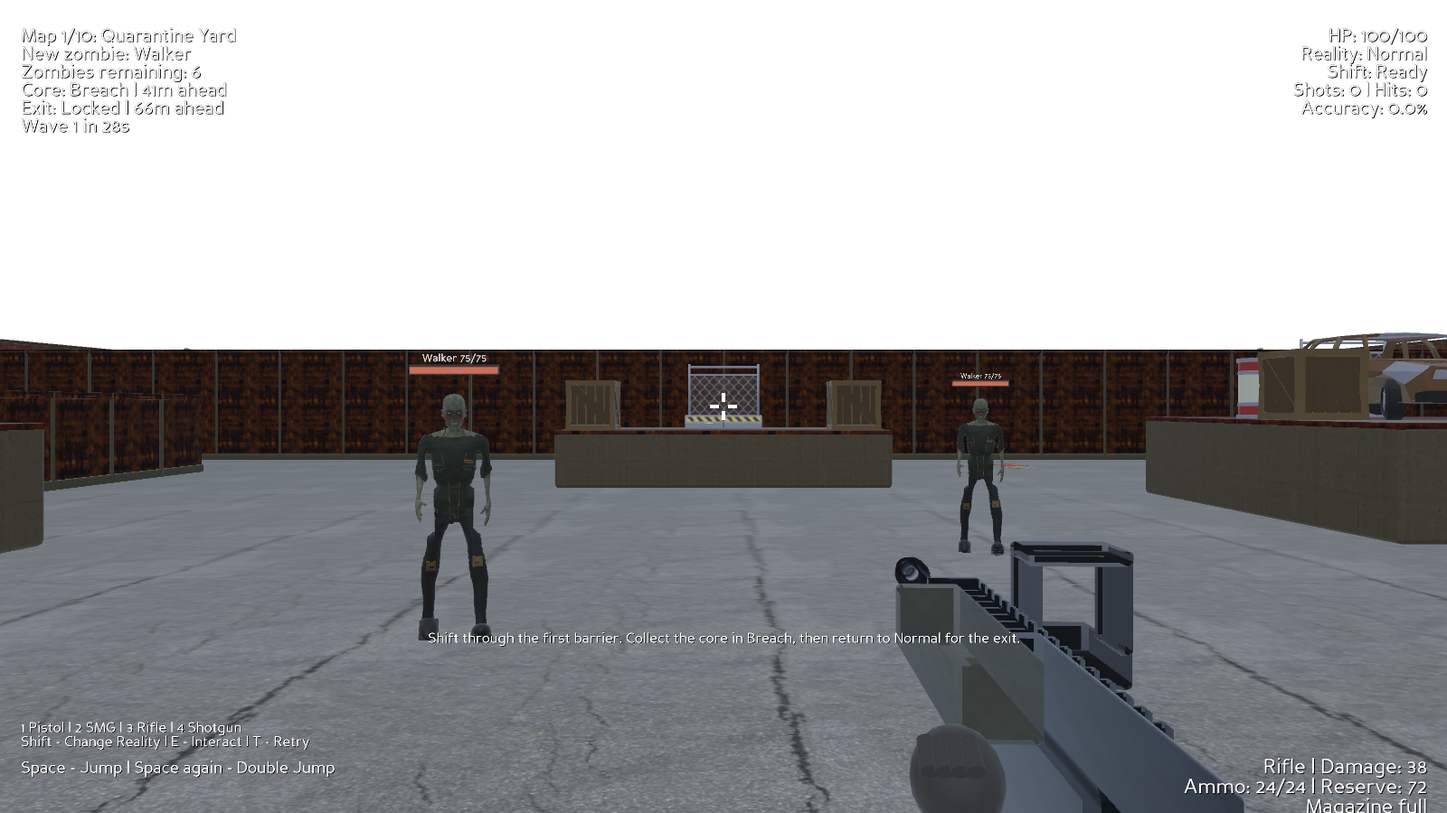
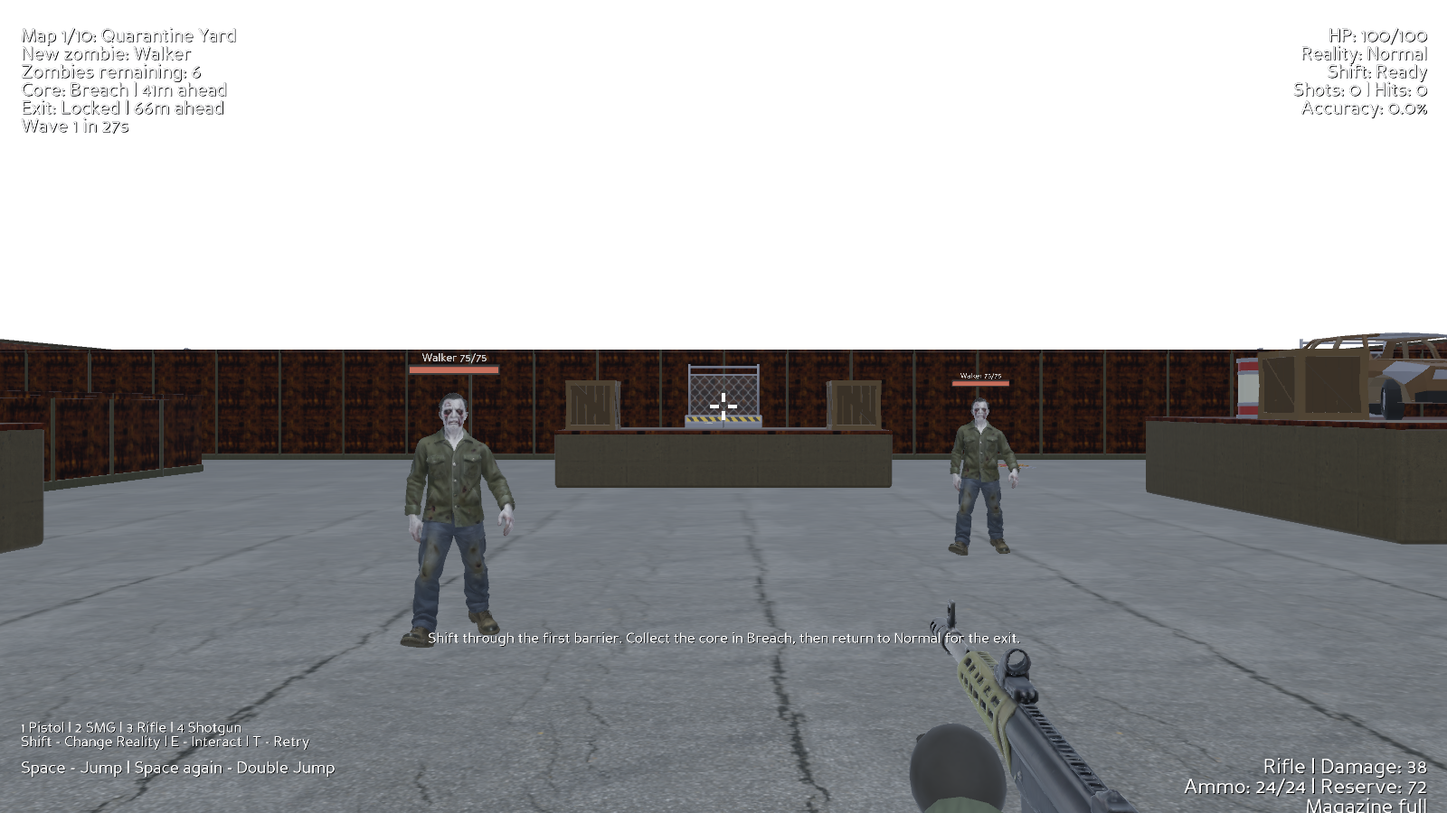
docs(art): document the Rodin pair and refresh real model previews

Changed region(s): [[0.5938, 0.4978, 0.875, 1.0], [0.2812, 0.4978, 0.375, 0.8089]]

diff --git a/assets/previews/gallery.html b/assets/previews/gallery.html
@@ -15,12 +15,12 @@ h1{font-size:32px;line-height:1.2;margin:8px 0 12px;letter-spacing:-1px}p{color:
 <header><div class="brand">BREACH <span>SHIFT</span></div><span class="tag">10 ZOMBIJA / 4 ORUŽJA</span></header>
 <main><div class="eyebrow">Pregled modela · Blender</div><h1>Izaberi sledeći detalj.</h1><p>Ovo su renderi stvarnih 3D modela. Izaberi lik ili oružje, uporedi statistike i otvori njegov Blender izvor za dalji dizajn.</p>
 <nav class="tabs" aria-label="Vrsta modela"><button id="zombies" aria-pressed="true">Zombiji</button><button id="weapons" aria-pressed="false">Oružje</button><button class="outline" id="engine">Pogledaj u igri ↗</button></nav>
-<section class="hero" aria-label="Izabrani model"><div class="stage"><img id="main-image" alt=""></div><div class="details"><div class="eyebrow" id="design"></div><h2 id="name"></h2><div class="metrics" id="metrics"></div><a class="source" id="blend">Otvori Blender fajl ↗</a><div class="hint">Primer zvuka</div><audio class="sound" id="audio" controls preload="none"></audio><div class="hint">Blender 4.5 LTS · teksture sačuvane u fajlu</div></div></section>
+<section class="hero" aria-label="Izabrani model"><div class="stage"><img id="main-image" alt=""></div><div class="details"><div class="eyebrow" id="design"></div><h2 id="name"></h2><div class="metrics" id="metrics"></div><a class="source" id="blend">Otvori Blender fajl ↗</a><div class="hint">Primer zvuka</div><audio class="sound" id="audio" controls preload="none"></audio><div class="hint">Blender 4.5 / 5.3 · teksture sačuvane u fajlu</div></div></section>
 <div class="cards" id="cards" aria-label="Dostupni modeli"></div>
 </main><footer>Prva anatomska Blender iteracija. Koncept slike ostaju vizuelni cilj; detaljna skeletna animacija i završna obrada mapa tek slede. <a href="../../docs/blender-workshop.md">Radni tok i izvori</a></footer>
 <dialog id="captures"><div class="dialogbar"><strong>Panda3D · stvarni prikaz</strong><button data-capture="zombie-roster.png">Zombiji</button><button data-capture="weapons.png">Oružje</button><button data-capture="gameplay.png">Gameplay</button><button id="close-captures" aria-label="Zatvori pregled">✕</button></div><img id="capture-image" src="zombie-roster.png" alt="Modeli prikazani u igri"></dialog>
 <script>
-const data={"zombies": [{"name": "Walker", "design": "The Groundskeeper", "image": "characters/walker.png", "blend": "../blender/characters/walker.blend", "audio": "../../breach_shift/data/audio/growl_1.wav", "summary": "75 HP", "metrics": [{"value": 75, "label": "HP"}, {"value": 12, "label": "DAMAGE"}, {"value": "1.2 m/s", "label": "BRZINA"}, {"value": "1.8 m", "label": "VISINA"}]}, {"name": "Runner", "design": "The Night Runner", "image": "characters/runner.png", "blend": "../blender/characters/runner.blend", "audio": "../../breach_shift/data/audio/growl_1.wav", "summary": "100 HP", "metrics": [{"value": 100, "label": "HP"}, {"value": 8, "label": "DAMAGE"}, {"value": "2.8 m/s", "label": "BRZINA"}, {"value": "1.8 m", "label": "VISINA"}]}, {"name": "Brute", "design": "The Foundry Worker", "image": "characters/brute.png", "blend": "../blender/characters/brute.blend", "audio": "../../breach_shift/data/audio/growl_1.wav", "summary": "150 HP", "metrics": [{"value": 150, "label": "HP"}, {"value": 28, "label": "DAMAGE"}, {"value": "0.8 m/s", "label": "BRZINA"}, {"value": "2.2 m", "label": "VISINA"}]}, {"name": "Spitter", "design": "The Contaminated", "image": "characters/spitter.png", "blend": "../blender/characters/spitter.blend", "audio": "../../breach_shift/data/audio/growl_1.wav", "summary": "180 HP", "metrics": [{"value": 180, "label": "HP"}, {"value": 10, "label": "DAMAGE"}, {"value": "1.1 m/s", "label": "BRZINA"}, {"value": "1.8 m", "label": "VISINA"}]}, {"name": "Leaper", "design": "The Escaped Patient", "image": "characters/leaper.png", "blend": "../blender/characters/leaper.blend", "audio": "../../breach_shift/data/audio/growl_1.wav", "summary": "220 HP", "metrics": [{"value": 220, "label": "HP"}, {"value": 18, "label": "DAMAGE"}, {"value": "1.5 m/s", "label": "BRZINA"}, {"value": "1.8 m", "label": "VISINA"}]}, {"name": "Armored", "design": "The Riot Guard", "image": "characters/armored.png", "blend": "../blender/characters/armored.blend", "audio": "../../breach_shift/data/audio/growl_1.wav", "summary": "270 HP", "metrics": [{"value": 270, "label": "HP"}, {"value": 16, "label": "DAMAGE"}, {"value": "1.0 m/s", "label": "BRZINA"}, {"value": "1.8 m", "label": "VISINA"}]}, {"name": "Howler", "design": "The Mourner", "image": "characters/howler.png", "blend": "../blender/characters/howler.blend", "audio": "../../breach_shift/data/audio/growl_1.wav", "summary": "320 HP", "metrics": [{"value": 320, "label": "HP"}, {"value": 11, "label": "DAMAGE"}, {"value": "0.9 m/s", "label": "BRZINA"}, {"value": "1.8 m", "label": "VISINA"}]}, {"name": "Stalker", "design": "The Watcher", "image": "characters/stalker.png", "blend": "../blender/characters/stalker.blend", "audio": "../../breach_shift/data/audio/growl_1.wav", "summary": "380 HP", "metrics": [{"value": 380, "label": "HP"}, {"value": 14, "label": "DAMAGE"}, {"value": "1.8 m/s", "label": "BRZINA"}, {"value": "1.8 m", "label": "VISINA"}]}, {"name": "Regenerator", "design": "The Researcher", "image": "characters/regenerator.png", "blend": "../blender/characters/regenerator.blend", "audio": "../../breach_shift/data/audio/growl_1.wav", "summary": "450 HP", "metrics": [{"value": 450, "label": "HP"}, {"value": 15, "label": "DAMAGE"}, {"value": "1.0 m/s", "label": "BRZINA"}, {"value": "1.8 m", "label": "VISINA"}]}, {"name": "Warden", "design": "The Breach Warden", "image": "characters/warden.png", "blend": "../blender/characters/warden.blend", "audio": "../../breach_shift/data/audio/growl_1.wav", "summary": "800 HP", "metrics": [{"value": 800, "label": "HP"}, {"value": 35, "label": "DAMAGE"}, {"value": "0.9 m/s", "label": "BRZINA"}, {"value": "2.6 m", "label": "VISINA"}]}], "weapons": [{"name": "Pistol", "design": "Breach Shift · originalni model", "image": "weapons/pistol.png", "blend": "../blender/weapons/pistol.blend", "audio": "../../breach_shift/data/audio/pistol.wav", "summary": "25 DMG", "metrics": [{"value": 25, "label": "DAMAGE PO HICU"}, {"value": 12, "label": "KAPACITET OKVIRA"}, {"value": "1.5s", "label": "PUNJENJE"}, {"value": 1, "label": "PROJEKTILA PO HICU"}]}, {"name": "SMG", "design": "Breach Shift · originalni model", "image": "weapons/smg.png", "blend": "../blender/weapons/smg.blend", "audio": "../../breach_shift/data/audio/smg.wav", "summary": "14 DMG", "metrics": [{"value": 14, "label": "DAMAGE PO HICU"}, {"value": 30, "label": "KAPACITET OKVIRA"}, {"value": "1.8s", "label": "PUNJENJE"}, {"value": 1, "label": "PROJEKTILA PO HICU"}]}, {"name": "Rifle", "design": "Breach Shift · originalni model", "image": "weapons/rifle.png", "blend": "../blender/weapons/rifle.blend", "audio": "../../breach_shift/data/audio/rifle.wav", "summary": "38 DMG", "metrics": [{"value": 38, "label": "DAMAGE PO HICU"}, {"value": 24, "label": "KAPACITET OKVIRA"}, {"value": "2.1s", "label": "PUNJENJE"}, {"value": 1, "label": "PROJEKTILA PO HICU"}]}, {"name": "Shotgun", "design": "Breach Shift · originalni model", "image": "weapons/shotgun.png", "blend": "../blender/weapons/shotgun.blend", "audio": "../../breach_shift/data/audio/shotgun.wav", "summary": "96 DMG", "metrics": [{"value": 96, "label": "DAMAGE PO HICU"}, {"value": 6, "label": "KAPACITET OKVIRA"}, {"value": "2.8s", "label": "PUNJENJE"}, {"value": 6, "label": "PROJEKTILA PO HICU"}]}]};let category='zombies',selected=0;
+const data={"zombies": [{"name": "Walker", "design": "The Groundskeeper / Hyper3D Rodin", "image": "characters/walker.png", "blend": "../blender/characters/walker.blend", "audio": "../../breach_shift/data/audio/growl_1.wav", "summary": "75 HP", "metrics": [{"value": 75, "label": "HP"}, {"value": 12, "label": "DAMAGE"}, {"value": "1.2 m/s", "label": "BRZINA"}, {"value": "1.8 m", "label": "VISINA"}]}, {"name": "Runner", "design": "The Night Runner", "image": "characters/runner.png", "blend": "../blender/characters/runner.blend", "audio": "../../breach_shift/data/audio/growl_1.wav", "summary": "100 HP", "metrics": [{"value": 100, "label": "HP"}, {"value": 8, "label": "DAMAGE"}, {"value": "2.8 m/s", "label": "BRZINA"}, {"value": "1.8 m", "label": "VISINA"}]}, {"name": "Brute", "design": "The Foundry Worker", "image": "characters/brute.png", "blend": "../blender/characters/brute.blend", "audio": "../../breach_shift/data/audio/growl_1.wav", "summary": "150 HP", "metrics": [{"value": 150, "label": "HP"}, {"value": 28, "label": "DAMAGE"}, {"value": "0.8 m/s", "label": "BRZINA"}, {"value": "2.2 m", "label": "VISINA"}]}, {"name": "Spitter", "design": "The Contaminated", "image": "characters/spitter.png", "blend": "../blender/characters/spitter.blend", "audio": "../../breach_shift/data/audio/growl_1.wav", "summary": "180 HP", "metrics": [{"value": 180, "label": "HP"}, {"value": 10, "label": "DAMAGE"}, {"value": "1.1 m/s", "label": "BRZINA"}, {"value": "1.8 m", "label": "VISINA"}]}, {"name": "Leaper", "design": "The Escaped Patient", "image": "characters/leaper.png", "blend": "../blender/characters/leaper.blend", "audio": "../../breach_shift/data/audio/growl_1.wav", "summary": "220 HP", "metrics": [{"value": 220, "label": "HP"}, {"value": 18, "label": "DAMAGE"}, {"value": "1.5 m/s", "label": "BRZINA"}, {"value": "1.8 m", "label": "VISINA"}]}, {"name": "Armored", "design": "The Riot Guard", "image": "characters/armored.png", "blend": "../blender/characters/armored.blend", "audio": "../../breach_shift/data/audio/growl_1.wav", "summary": "270 HP", "metrics": [{"value": 270, "label": "HP"}, {"value": 16, "label": "DAMAGE"}, {"value": "1.0 m/s", "label": "BRZINA"}, {"value": "1.8 m", "label": "VISINA"}]}, {"name": "Howler", "design": "The Mourner", "image": "characters/howler.png", "blend": "../blender/characters/howler.blend", "audio": "../../breach_shift/data/audio/growl_1.wav", "summary": "320 HP", "metrics": [{"value": 320, "label": "HP"}, {"value": 11, "label": "DAMAGE"}, {"value": "0.9 m/s", "label": "BRZINA"}, {"value": "1.8 m", "label": "VISINA"}]}, {"name": "Stalker", "design": "The Watcher", "image": "characters/stalker.png", "blend": "../blender/characters/stalker.blend", "audio": "../../breach_shift/data/audio/growl_1.wav", "summary": "380 HP", "metrics": [{"value": 380, "label": "HP"}, {"value": 14, "label": "DAMAGE"}, {"value": "1.8 m/s", "label": "BRZINA"}, {"value": "1.8 m", "label": "VISINA"}]}, {"name": "Regenerator", "design": "The Researcher", "image": "characters/regenerator.png", "blend": "../blender/characters/regenerator.blend", "audio": "../../breach_shift/data/audio/growl_1.wav", "summary": "450 HP", "metrics": [{"value": 450, "label": "HP"}, {"value": 15, "label": "DAMAGE"}, {"value": "1.0 m/s", "label": "BRZINA"}, {"value": "1.8 m", "label": "VISINA"}]}, {"name": "Warden", "design": "The Breach Warden", "image": "characters/warden.png", "blend": "../blender/characters/warden.blend", "audio": "../../breach_shift/data/audio/growl_1.wav", "summary": "800 HP", "metrics": [{"value": 800, "label": "HP"}, {"value": 35, "label": "DAMAGE"}, {"value": "0.9 m/s", "label": "BRZINA"}, {"value": "2.6 m", "label": "VISINA"}]}], "weapons": [{"name": "Pistol", "design": "Breach Shift · originalni model", "image": "weapons/pistol.png", "blend": "../blender/weapons/pistol.blend", "audio": "../../breach_shift/data/audio/pistol.wav", "summary": "25 DMG", "metrics": [{"value": 25, "label": "DAMAGE PO HICU"}, {"value": 12, "label": "KAPACITET OKVIRA"}, {"value": "1.5s", "label": "PUNJENJE"}, {"value": 1, "label": "PROJEKTILA PO HICU"}]}, {"name": "SMG", "design": "Breach Shift · originalni model", "image": "weapons/smg.png", "blend": "../blender/weapons/smg.blend", "audio": "../../breach_shift/data/audio/smg.wav", "summary": "14 DMG", "metrics": [{"value": 14, "label": "DAMAGE PO HICU"}, {"value": 30, "label": "KAPACITET OKVIRA"}, {"value": "1.8s", "label": "PUNJENJE"}, {"value": 1, "label": "PROJEKTILA PO HICU"}]}, {"name": "Rifle", "design": "Hyper3D Rodin", "image": "weapons/rifle.png", "blend": "../blender/weapons/rifle.blend", "audio": "../../breach_shift/data/audio/rifle.wav", "summary": "38 DMG", "metrics": [{"value": 38, "label": "DAMAGE PO HICU"}, {"value": 24, "label": "KAPACITET OKVIRA"}, {"value": "2.1s", "label": "PUNJENJE"}, {"value": 1, "label": "PROJEKTILA PO HICU"}]}, {"name": "Shotgun", "design": "Breach Shift · originalni model", "image": "weapons/shotgun.png", "blend": "../blender/weapons/shotgun.blend", "audio": "../../breach_shift/data/audio/shotgun.wav", "summary": "96 DMG", "metrics": [{"value": 96, "label": "DAMAGE PO HICU"}, {"value": 6, "label": "KAPACITET OKVIRA"}, {"value": "2.8s", "label": "PUNJENJE"}, {"value": 6, "label": "PROJEKTILA PO HICU"}]}]};let category='zombies',selected=0;
 function choose(index){selected=index;const model=data[category][index];document.getElementById('main-image').src=model.image;document.getElementById('main-image').alt=model.name+' — Blender render';document.getElementById('name').textContent=model.name;document.getElementById('design').textContent=model.design;document.getElementById('metrics').innerHTML=model.metrics.map(m=>'<div class="metric"><b>'+m.value+'</b><span>'+m.label+'</span></div>').join('');document.getElementById('blend').href=model.blend;const sound=document.getElementById('audio');sound.pause();sound.src=model.audio;document.querySelectorAll('.card').forEach((card,i)=>card.setAttribute('aria-pressed',String(i===index)));}
 function show(group){category=group;for(const id of ['zombies','weapons'])document.getElementById(id).setAttribute('aria-pressed',String(id===group));const cards=document.getElementById('cards');cards.replaceChildren();data[group].forEach((model,i)=>{const button=document.createElement('button');button.className='card';button.setAttribute('aria-label',model.name);button.innerHTML='<img src="'+model.image+'" alt="" loading="lazy"><strong>'+model.name+'</strong><small>'+model.summary+'</small>';button.onclick=()=>choose(i);cards.append(button)});choose(0)}
 document.getElementById('zombies').onclick=()=>show('zombies');document.getElementById('weapons').onclick=()=>show('weapons');document.getElementById('engine').onclick=()=>document.getElementById('captures').showModal();document.getElementById('close-captures').onclick=()=>document.getElementById('captures').close();for(const button of document.querySelectorAll('[data-capture]'))button.onclick=()=>document.getElementById('capture-image').src=button.dataset.capture;show('zombies');

diff --git a/tools/art/build_gallery.py b/tools/art/build_gallery.py
@@ -26,7 +26,7 @@ h1{font-size:32px;line-height:1.2;margin:8px 0 12px;letter-spacing:-1px}p{color:
 <header><div class="brand">BREACH <span>SHIFT</span></div><span class="tag">10 ZOMBIJA / 4 ORUŽJA</span></header>
 <main><div class="eyebrow">Pregled modela · Blender</div><h1>Izaberi sledeći detalj.</h1><p>Ovo su renderi stvarnih 3D modela. Izaberi lik ili oružje, uporedi statistike i otvori njegov Blender izvor za dalji dizajn.</p>
 <nav class="tabs" aria-label="Vrsta modela"><button id="zombies" aria-pressed="true">Zombiji</button><button id="weapons" aria-pressed="false">Oružje</button><button class="outline" id="engine">Pogledaj u igri ↗</button></nav>
-<section class="hero" aria-label="Izabrani model"><div class="stage"><img id="main-image" alt=""></div><div class="details"><div class="eyebrow" id="design"></div><h2 id="name"></h2><div class="metrics" id="metrics"></div><a class="source" id="blend">Otvori Blender fajl ↗</a><div class="hint">Primer zvuka</div><audio class="sound" id="audio" controls preload="none"></audio><div class="hint">Blender 4.5 LTS · teksture sačuvane u fajlu</div></div></section>
+<section class="hero" aria-label="Izabrani model"><div class="stage"><img id="main-image" alt=""></div><div class="details"><div class="eyebrow" id="design"></div><h2 id="name"></h2><div class="metrics" id="metrics"></div><a class="source" id="blend">Otvori Blender fajl ↗</a><div class="hint">Primer zvuka</div><audio class="sound" id="audio" controls preload="none"></audio><div class="hint">Blender 4.5 / 5.3 · teksture sačuvane u fajlu</div></div></section>
 <div class="cards" id="cards" aria-label="Dostupni modeli"></div>
 </main><footer>Prva anatomska Blender iteracija. Koncept slike ostaju vizuelni cilj; detaljna skeletna animacija i završna obrada mapa tek slede. <a href="../../docs/blender-workshop.md">Radni tok i izvori</a></footer>
 <dialog id="captures"><div class="dialogbar"><strong>Panda3D · stvarni prikaz</strong><button data-capture="zombie-roster.png">Zombiji</button><button data-capture="weapons.png">Oružje</button><button data-capture="gameplay.png">Gameplay</button><button id="close-captures" aria-label="Zatvori pregled">✕</button></div><img id="capture-image" src="zombie-roster.png" alt="Modeli prikazani u igri"></dialog>
@@ -40,17 +40,23 @@ document.getElementById('zombies').onclick=()=>show('zombies');document.getEleme
 
 def main():
     data = {"zombies": [], "weapons": []}
+    def provider(folder, kind):
+        path = ROOT / "assets/models" / folder / (kind.value + ".json")
+        return json.loads(path.read_text(encoding="utf-8")).get("provider") if path.is_file() else None
     for kind in ZOMBIE_ORDER:
         spec = ZOMBIE_SPECS[kind]
         design = json.loads((ROOT / "assets/designs/characters" / (kind.value + ".json")).read_text())
-        data["zombies"].append({"name": kind.value.title(), "design": design["name"],
+        source = provider("characters", kind)
+        label = design["name"] + (" / " + source if source else "")
+        data["zombies"].append({"name": kind.value.title(), "design": label,
             "image": f"characters/{kind.value}.png", "blend": f"../blender/characters/{kind.value}.blend",
             "audio": "../../breach_shift/data/audio/growl_1.wav", "summary": f"{spec.health} HP",
             "metrics": [{"value": spec.health, "label": "HP"}, {"value": spec.damage, "label": "DAMAGE"},
                         {"value": f"{spec.speed} m/s", "label": "BRZINA"}, {"value": f"{spec.height} m", "label": "VISINA"}]})
     for kind in WEAPON_ORDER:
         spec = WEAPON_SPECS[kind]
-        data["weapons"].append({"name": spec.name, "design": "Breach Shift · originalni model",
+        source = provider("weapons", kind) or "Breach Shift · originalni model"
+        data["weapons"].append({"name": spec.name, "design": source,
             "image": f"weapons/{kind.value}.png", "blend": f"../blender/weapons/{kind.value}.blend",
             "audio": f"../../breach_shift/data/audio/{kind.value}.wav", "summary": f"{spec.damage} DMG",
             "metrics": [{"value": spec.damage, "label": "DAMAGE PO HICU"}, {"value": spec.magazine_size, "label": "KAPACITET OKVIRA"},

diff --git a/docs/rodin-models.md b/docs/rodin-models.md
@@ -1,0 +1,43 @@
+# First generated character and weapon
+
+The rifle and Walker are generated with **Hyper3D Rodin v2.5 through fal.ai**.
+Each has one accepted generation; all subsequent repairs, texture baking,
+optimization, orientation, rigging and captures are local Blender/Panda3D work.
+No account identifiers, request URLs or credentials are included in these assets.
+
+| Asset | Source triangles | Game triangles | Runtime form |
+| --- | --- | --- | --- |
+| [Tactical rifle](../assets/models/weapons/rifle.glb) | 500,000 | 4,800 | Embedded PBR GLB, 0.92 m long |
+| [Walker](../assets/models/characters/walker.glb) | 500,000 | 11,800 | Embedded PBR GLB, 1.8 m tall, skinned humanoid |
+
+The [rifle source](../assets/blender/weapons/rifle.blend) and
+[Walker source](../assets/blender/characters/walker.blend) retain hidden detailed
+source meshes and their original UVs for future refinements without another
+generation. The visible game meshes satisfy the strict budgets. Both sources
+use a clean factory layout and packed, relative textures.
+
+Imported glTF may split vertices at normal/UV seams. The optimizer welds matching
+positions while retaining per-corner UVs before Decimate. The rifle also keeps
+its source UV layer and adds a game UV channel; albedo, roughness, metallic and
+tangent normals are baked locally from the detailed source. The Walker keeps
+its generated UVs and receives a locally built skeleton with normalized weights.
+
+Panda3D wraps the Walker as an independent Actor with the four joint controllers
+used by the existing walk animation. Cleanup releases each actor's part bundles.
+The rifle's measured muzzle comes from its packaged metadata. The first-person
+view keeps depth testing in a near depth slice, so its surfaces occlude correctly
+while nearby world walls do not hide the weapon.
+
+The mixed-library export command prefers reviewed production GLBs and does not
+recreate superseded BAM aliases. Earlier Blender builders skip migrated kinds
+to protect the generated editable sources. Three other weapons and nine other
+zombies remain the retained earlier art pass.
+
+Generated-model provider references are [Rodin on fal.ai](https://fal.ai/models/fal-ai/hyper3d/rodin/v2.5/text-to-3d)
+and [Hyper3D](https://hyper3d.ai/). The courtyard's CC0 credits apply to its Poly
+Haven and Poly Pizza sources; these generated models have separate provenance.
+
+For the public renders, see [the model gallery](../assets/previews/gallery.html)
+and [actual gameplay](../assets/previews/gameplay.png). Tests cover strict budgets,
+source/runtime equality, physical scale, muzzle alignment, live vertex skinning,
+independent skeleton instances, cleanup and rendered weapon occlusion.

diff --git a/docs/production-assets.md b/docs/production-assets.md
@@ -65,8 +65,9 @@ definitions retain their own geometry.
 
 Request only one unique model at a time through `create_rodin_job`, keep job IDs
 and subscription keys in ignored local storage, poll the job, then import the
-completed result. A usable Rodin account is required. No Rodin-generated weapon
-has been installed in this art pass; the working weapon library remains active.
+completed result. The first rifle and Walker are now installed; see
+[the generated model handoff](./rodin-models.md). The other weapons and zombies
+remain active from the earlier Blender library until individually replaced.
 
 For a completed weapon result, use [the Rodin optimizer](../tools/blender/optimize_rodin.py):
 
@@ -77,10 +78,12 @@ blender --background --factory-startup --python tools/blender/optimize_rodin.py 
 Decimate preserves UV layers and enforces **strictly fewer than 5,000 triangles**.
 It packs PBR images and exports a candidate GLB and sanitized editable scene.
 Review its orientation, grip position, muzzle alignment, textures and silhouette
-before copying it into the packaged weapon folder. The runtime loader prefers a
+before copying it into the packaged weapon folder. Keep the measured muzzle JSON
+alongside the GLB. The runtime loader prefers a
 validated GLB over the matching older BAM. Generated zombies require fewer than
 12,000 triangles **and** the animation pivots/rig expected by the game before
-installation; the weapon optimizer does not invent a zombie rig.
+installation. Use [the character optimizer](../tools/blender/optimize_rodin_character.py)
+to preserve UVs, fit the character budget and bind a local humanoid skeleton.
 
 ## Offline loading and privacy checks
 
@@ -104,5 +107,5 @@ blender --background --factory-startup --disable-autoexec --python-exit-code 1 a
 
 Inspect [actual gameplay](../assets/previews/gameplay.png) separately from
 [the Blender environment render](../assets/previews/quarantine-yard-blender.png).
-The other nine maps and the existing character/weapon roster remain the earlier
-art pass until their individual replacements are ready and verified.
+The other nine maps, three weapons and nine zombies remain the earlier art pass
+until their individual replacements are ready and verified.

diff --git a/docs/github-progress.md b/docs/github-progress.md
@@ -37,12 +37,23 @@ cleanup, licensed Poly Pizza props, Poly Haven architecture, Panda3D GLB/HDRI
 integration, UV-preserving Rodin weapon optimization, Blender privacy checks,
 and the documented visual handoff. Each milestone is pushed separately.
 
-After this pass, the branch contains **53 history entries since the baseline**,
-with **7 commits ahead of the current default-branch baseline**. These pending
+At the courtyard-only handoff (`c343368`), the branch contained **53 history entries since the baseline**,
+with **7 commits ahead of its default-branch baseline**. Those pending
 commits are not a claim that GitHub has credited 53 profile contributions.
 No empty commits, duplicate PRs or rewritten history are used to reach the goal.
 
-Validation includes 164 game/asset tests, real Blender and Panda3D previews, a
+The initial validation included 164 game/asset tests, real Blender and Panda3D previews, a
 standalone wheel smoke check, and a privacy scan of both new source artifacts
 and all packaged content. The Rodin optimizer is checked with a synthetic UV
-fixture; no generated weapon is claimed as delivered in this pass.
+fixture; no generated weapon was included in that initial courtyard-only handoff.
+
+## Rodin follow-up
+
+The same PR now adds the first generated rifle and Walker, source-preserving
+optimization and baking, local skeletal binding, measured muzzle placement,
+correct first-person depth, mixed-library packaging and regression tests.
+These are development milestones; new pushes remain synchronization operations.
+Use the commands above for the current branch count rather than treating the
+earlier snapshot or pending commits as a credited contribution graph total.
+The follow-up passes 169 tests, including real rendered weapon occlusion and
+independent skinned-vertex deformation, plus the mixed-library export and wheel checks.

diff --git a/assets/README.md b/assets/README.md
@@ -10,6 +10,8 @@
 | [blender/environments](./blender/environments) | Packed production courtyard scene with Poly Haven HDRI. |
 | [models/environments](./models/environments) | Courtyard, switching barriers and reusable PBR architecture modules. |
 | [models/props](./models/props) | Six normalized CC0 Poly Pizza props. |
+| [models/weapons](./models/weapons) | Reviewed Rodin rifle GLB with measured muzzle metadata. |
+| [models/characters](./models/characters) | Reviewed skinned Rodin Walker GLB and export metadata. |
 | [designs/characters](./designs/characters) | Individual character proportions, colors and costume styles. |
 | [Runtime characters](../breach_shift/data/models/characters) | Packaged runtime zombie models, including the female Runner. |
 | [Runtime weapons](../breach_shift/data/models/weapons) | Packaged weapon models used by the first-person view. |
@@ -25,5 +27,7 @@ Unused placeholder directories have been removed. PNG concept sheets remain
 visual design references. See [the cleanup audit](../docs/asset-audit.md).
 See [production credits](./LICENSE-PRODUCTION.md) and
 [the production workflow](../docs/production-assets.md) for new assets.
+The [Rodin model handoff](../docs/rodin-models.md) documents the first generated
+rifle and Walker and their locally retained detailed sources.
 See [the art brief](../docs/art-direction.md) and
 [the map handoff](../docs/campaign.md#replacement-assets) before adding assets.

diff --git a/docs/blender-workshop.md b/docs/blender-workshop.md
@@ -4,8 +4,9 @@ Blender 4.5 LTS is the authoring tool. The game runs exported models directly;
 players do not need Blender, MakeHuman or network access.
 
 New environments use [the BlenderMCP production workflow](./production-assets.md)
-with Poly Haven and Poly Pizza. Rodin is reserved for future character and main
-weapon replacements. The tools below reproduce the retained earlier art library.
+with Poly Haven and Poly Pizza. The first Rodin rifle and skinned Walker are
+documented in [the model handoff](./rodin-models.md). The tools below reproduce
+the retained earlier art library and skip migrated kinds to preserve their sources.
 
 ## Editable sources and reproduction
 

diff --git a/README.md b/README.md
@@ -121,6 +121,8 @@ See [the Blender workflow](./docs/blender-workshop.md) to edit or rebuild them.
 
 See [the production asset workflow](./docs/production-assets.md) for the first
 modular courtyard, licenses, GLB export checks and the Rodin weapon handoff.
+The first [Rodin rifle and skinned Walker](./docs/rodin-models.md) now run in-game;
+their detailed sources are retained for local refinement.
 
 Gameplay runs offline and uses no external services or runtime network access.
 Generated concept images are design references. Character sources are editable
